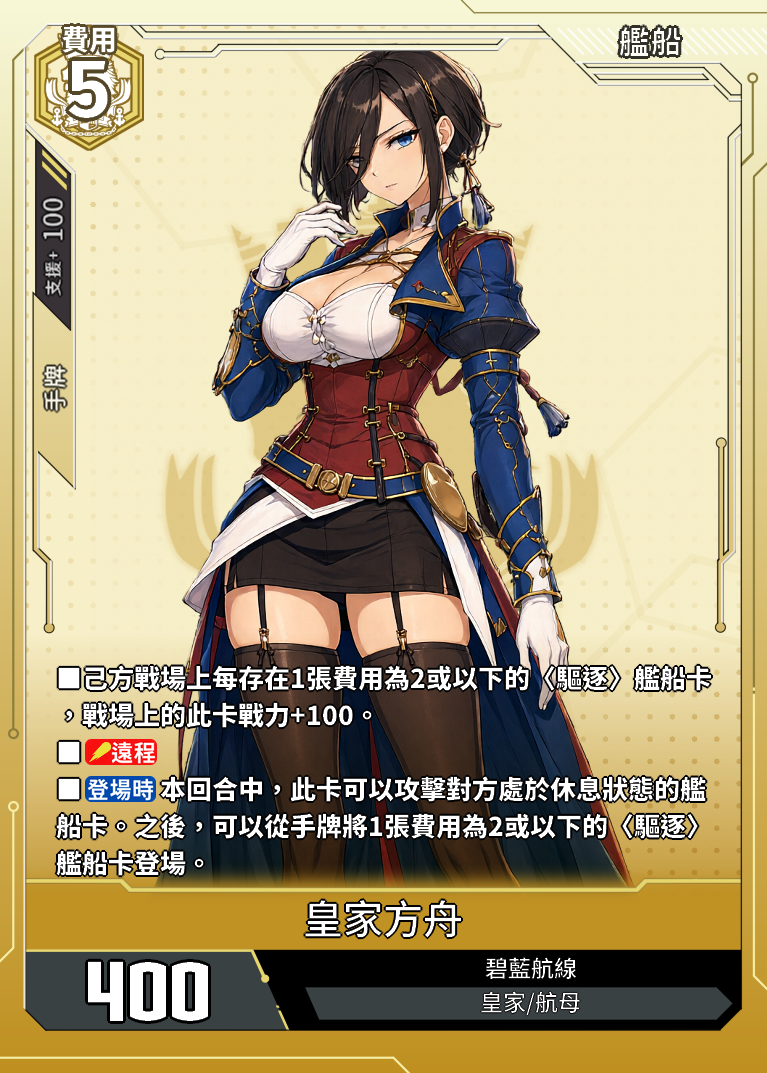
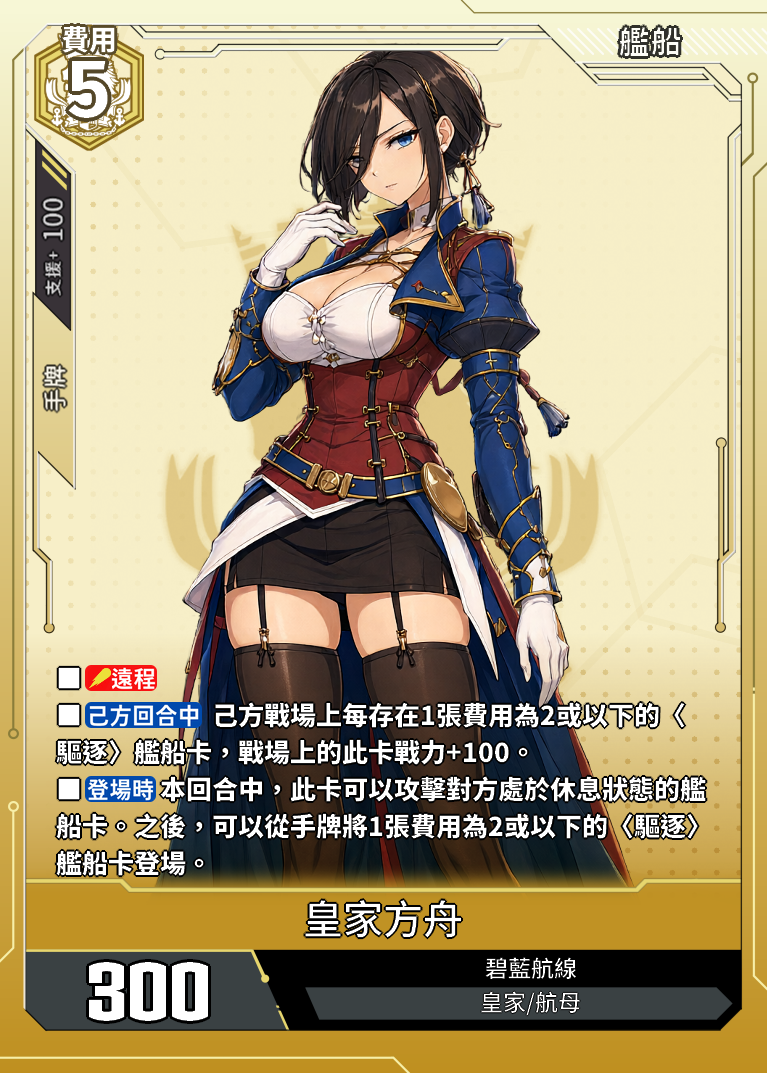
修改皇家方舟

Changed region(s): [[0.06, 0.6151, 0.9296, 0.7381], [0.09, 0.8919, 0.1799, 0.9534]]

diff --git a/data.js b/data.js
@@ -27123,7 +27123,7 @@ const cards = [
             "顏　色": "黃",
             "種　類": "艦船卡",
             "費　用": "5",
-            "戰　力": "400",
+            "戰　力": "300",
             "陣　營": "皇家",
             "艦船類型": "航母",
             "罕　貴": "-",
@@ -27131,7 +27131,7 @@ const cards = [
             "支援範圍": "手牌",
             "支援值": "100"
         },
-        "card_effect": "■己方戰場上每存在1張費用為2或以下的〈驅逐〉艦船卡，戰場上的此卡戰力+100。■【遠程】■【登場時】本回合中，此卡可以攻擊對方處於休息狀態的艦船卡。之後，可以從手牌登場1張費用為2或以下的〈驅逐〉艦船卡。",
+        "card_effect": "■【遠程】■【己方回合中】己方戰場上每存在1張費用為2或以下的〈驅逐〉艦船卡，戰場上的此卡戰力+100。■【登場時】本回合中，此卡可以攻擊對方處於休息狀態的艦船卡。之後，可以從手牌登場1張費用為2或以下的〈驅逐〉艦船卡。",
         "acquisition_method": "CE03-早期測試"
     },
 	{
